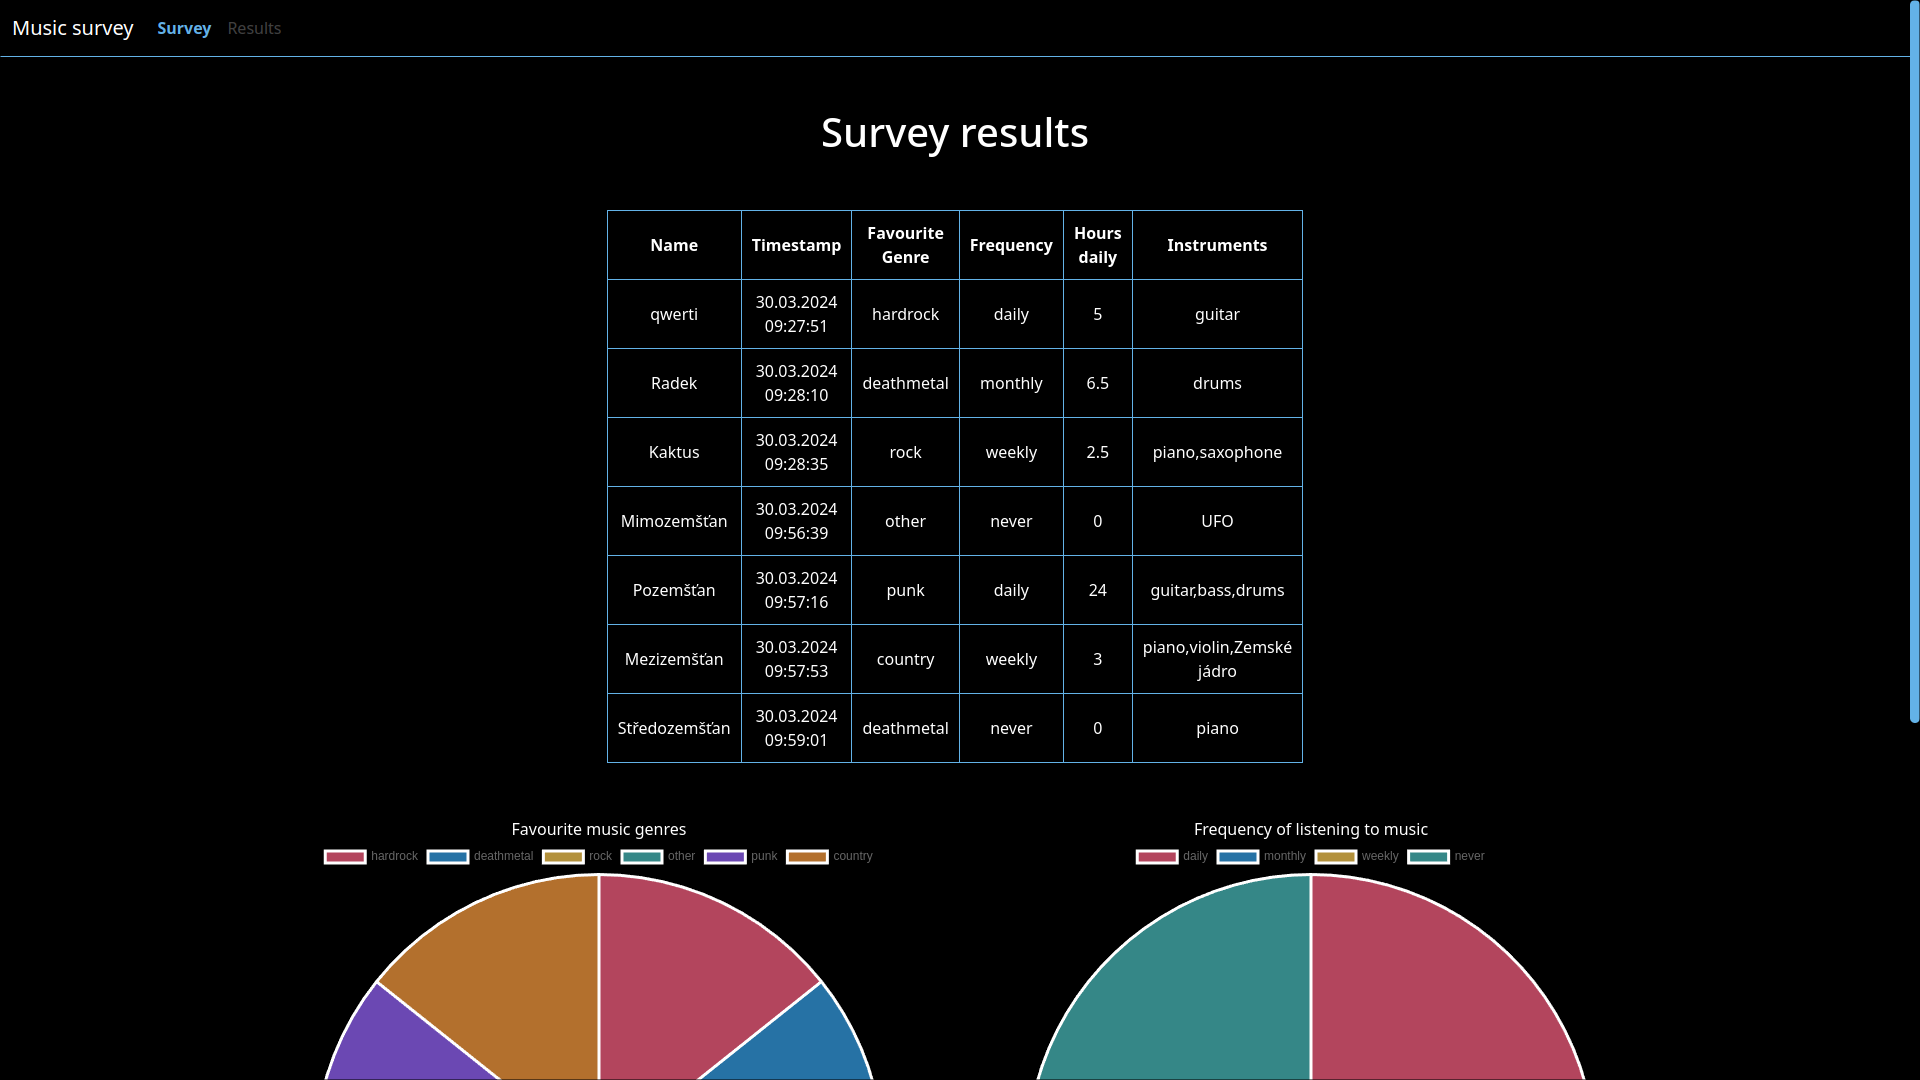
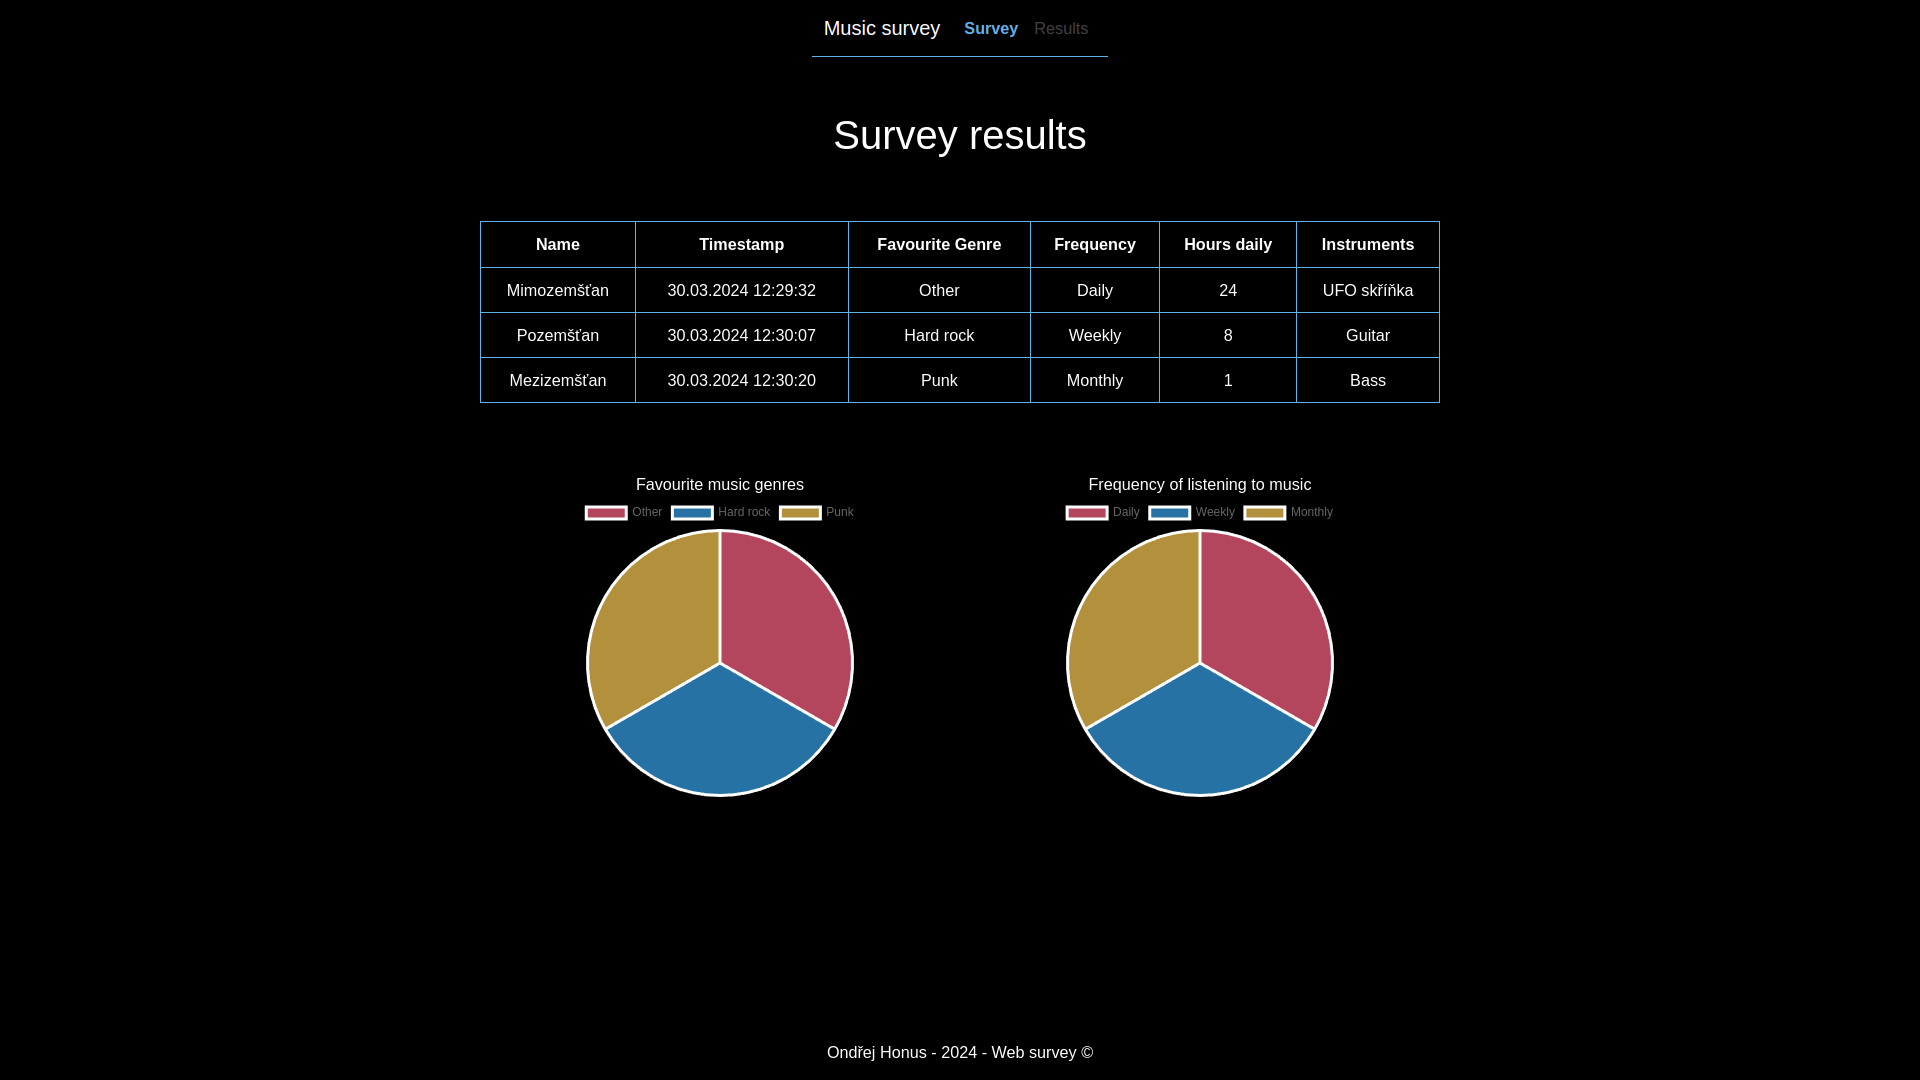
05.1 - responsivity

diff --git a/public/css/style.css b/public/css/style.css
@@ -1,12 +1,9 @@
 html,
 body {
-    width: 100%;
-    display: flex;
-    margin: 0;
-    align-content: center;
-    vertical-align: middle;
-    padding: 0;
     flex-direction: column;
+    width: 100%;
+    margin: 0;
+    padding: 0;
     min-height: 100vh;
 }
 
@@ -15,12 +12,15 @@ body {
     color: white;
     margin: auto;
     padding: 0;
-    box-sizing: border-box;
+    animation: fadeIn 1s forwards;
+    align-items: center;
+    justify-content: center;
     display: flex;
     flex-direction: column;
-    min-height: 100vh;
-    animation: fadeIn 1s forwards;
+    font-family: 'Roboto', sans-serif;
+    font-size: 1.5vh;
 }
+
 
 @keyframes fadeIn {
     from {
@@ -45,9 +45,11 @@ body {
 }
 
 main {
-    margin: auto;
-    margin-top: 10vh;
-    margin-bottom: 10vh;
+    width: 100%;
+    margin: 0 auto;
+    align-items: center;
+    margin-top: 5vh;
+
 }
 
 a.active {
@@ -99,10 +101,17 @@ select {
 }
 
 table {
-    width: 50vh;
     border-collapse: collapse;
-    margin: 0 auto;
+    left: 0;
+    right: 0;
+    margin: auto;
+    width: 50%;
     margin-top: 5vh;
+    background-color: #000000;
+    color: #fff;
+    border: solid 1px #63b2e7;
+    border-radius: 10px;
+
 }
 
 th,
@@ -129,21 +138,26 @@ td {
     background-color: #aac1dd;
 }
 
-.navbar {
-    width: 100%;
-}
 div.pieCharts {
     display: flex;
-    justify-content: center;
-    margin-bottom: 20px;
+    flex-wrap: wrap;
+    width: 50%;
+    margin: 0 auto;
+    margin-bottom: 4vh;
     text-align: center;
-    margin-top: 5vh;
+
 }
-div.pieCharts canvas{
-    margin: 0 5vh;
+
+div.genres{
+    width: max-content;
 }
-.chartContainer {
-    width: 70vh;
+
+@media (max-width: 800px) {
+    div.pieCharts {
+        width: 100%;
+        visibility: hidden;
+        display: none;
+    }
 
 }
 input[type="text"] {
@@ -154,9 +168,49 @@ input[type="text"] {
     max-width: 45vh;
     border: none;
 }
+
 input[type="text"]::placeholder {
     color: #747cbe;
 }
+
+input[type="number"] {
+    border: white 1px solid;
+    border-radius: 0.3vh;
+    padding: 0.5vh;
+}
+
+@media (max-width: 600px) {
+
+    .chartContainer,
+    input[type="text"],
+    input[type="number"] {
+        max-width: 100%;
+    }
+}
+
+div.pieCharts canvas {
+    margin: 0 5vh;
+}
+
+.chartContainer {
+    max-width: 40vw !important;
+    margin: 0 auto;
+    margin-top: 5vh;
+}
+
+input[type="text"] {
+    border: white 1px solid;
+    border-radius: 0.3vh;
+    padding: 0.5vh;
+    margin: 0.5vh;
+    max-width: 45vh;
+    border: none;
+}
+
+input[type="text"]::placeholder {
+    color: #747cbe;
+}
+
 input[type="number"] {
     border: white 1px solid;
     border-radius: 0.3vh;
@@ -167,18 +221,22 @@ input[type="number"] {
     border: none;
 
 }
-input{
+
+input {
     background-color: #092349;
     color: #fff;
 }
+
 input:disabled {
     background-color: #141414;
     color: #535353 !important;
     border: none;
 }
+
 input[type="text"]:disabled::placeholder {
     color: #535353;
 }
+
 select {
     background-color: #092349;
     color: #fff;

diff --git a/public/js/script.js b/public/js/script.js
@@ -47,7 +47,7 @@ document.addEventListener('DOMContentLoaded', function() {
 
                 ],
                 borderWidth: 3,
-                hoverOffset: 100
+                hoverOffset: 100,
             }]
         },
     });
@@ -65,10 +65,8 @@ document.addEventListener('DOMContentLoaded', function() {
                     'rgba(75, 192, 192, 0.7)',
                 ],
                 borderWidth: 3,
-                hoverOffset: 100
-
+                hoverOffset: 100,
             }]
-            
         },
     });
 });
